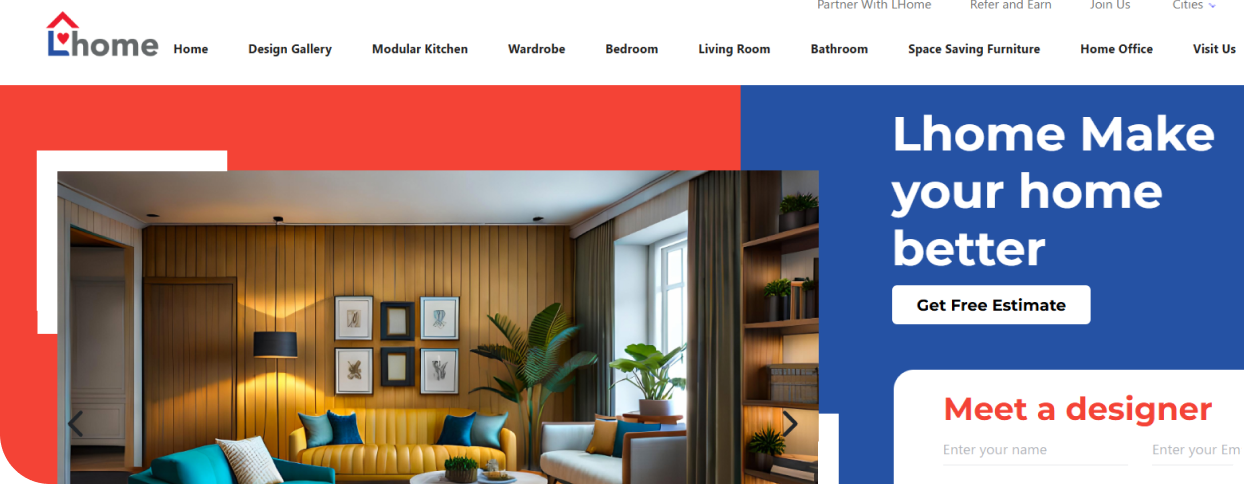
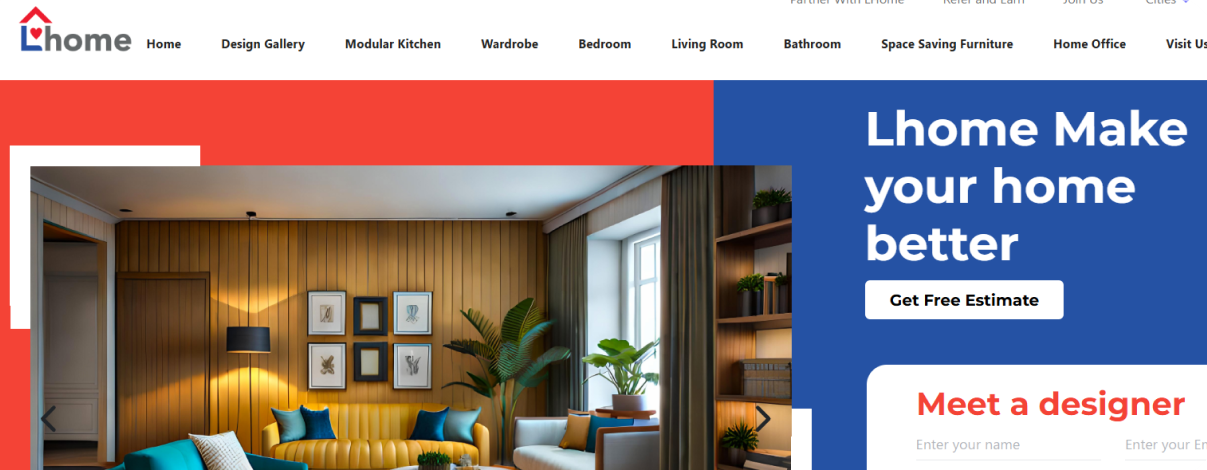
some changes

diff --git a/src/components/portfolio/portfoliobanner.css b/src/components/portfolio/portfoliobanner.css
@@ -256,3 +256,64 @@ font-style: italic;
     height: 20px;
   }
 }
+/* 🔥 Keyframes for Animations */
+@keyframes fadeUp {
+  0% {
+    opacity: 0;
+    transform: translateY(30px);
+  }
+  100% {
+    opacity: 1;
+    transform: translateY(0);
+  }
+}
+
+@keyframes slideRight {
+  0% {
+    opacity: 0;
+    transform: translateX(-40px);
+  }
+  100% {
+    opacity: 1;
+    transform: translateX(0);
+  }
+}
+
+@keyframes fadeInScale {
+  0% {
+    opacity: 0;
+    transform: scale(0.8);
+  }
+  100% {
+    opacity: 1;
+    transform: scale(1);
+  }
+}
+
+
+/* ⭐ Applying Animations */
+.banner-title {
+  animation: fadeUp 1s ease-out forwards;
+}
+
+.details-section .detail-box {
+  opacity: 0;
+  animation: fadeUp 1s ease-out forwards;
+}
+
+/* Delay each detail box sequentially */
+.details-section .detail-box:nth-child(1) {
+  animation-delay: 0.4s;
+}
+.details-section .detail-box:nth-child(2) {
+  animation-delay: 0.6s;
+}
+.details-section .detail-box:nth-child(3) {
+  animation-delay: 0.8s;
+}
+
+.view-btn {
+  opacity: 0;
+  animation: fadeInScale 0.9s ease-out forwards;
+  animation-delay: 1.1s;
+}

diff --git a/src/components/portfolio/lhome.css b/src/components/portfolio/lhome.css
@@ -38,7 +38,7 @@
 
 .top-banner img {
   width: 100%;
-  height: 450px;
+  height: 550px;
   object-fit: cover;
   display: block;
   border-radius: 50px; /* 🔹 Border radius */
@@ -142,4 +142,40 @@
     max-width: 900px;
     font-size: 19px;
   }
+}
+
+/* 🔥 Animation Keyframes */
+@keyframes fadeZoom {
+  0% {
+    opacity: 0;
+    transform: scale(0.9);
+  }
+  100% {
+    opacity: 1;
+    transform: scale(1);
+  }
+}
+
+@keyframes fadeUp {
+  0% {
+    opacity: 0;
+    transform: translateY(30px);
+  }
+  100% {
+    opacity: 1;
+    transform: translateY(0);
+  }
+}
+
+/* ⭐ Applying animations to Image + Content */
+.top-banner img {
+  opacity: 0;
+  animation: fadeZoom 1.1s ease-out forwards;
+  animation-delay: 0.3s;
+}
+
+.content-section {
+  opacity: 0;
+  animation: fadeUp 1s ease-out forwards;
+  animation-delay: 0.8s;
 }

diff --git a/src/components/portfolio/collah.js b/src/components/portfolio/collah.js
@@ -1,7 +1,7 @@
 import React from "react";
 import "./lhome.css";
 import Portfoliobanner from "./portfoliobanner";
-import collahbannerImg from "../assets/coollah.jpg";
+import collahbannerImg from "../assets/coollah.png";
 const CollahBanner = () => {
   return (
     <>
